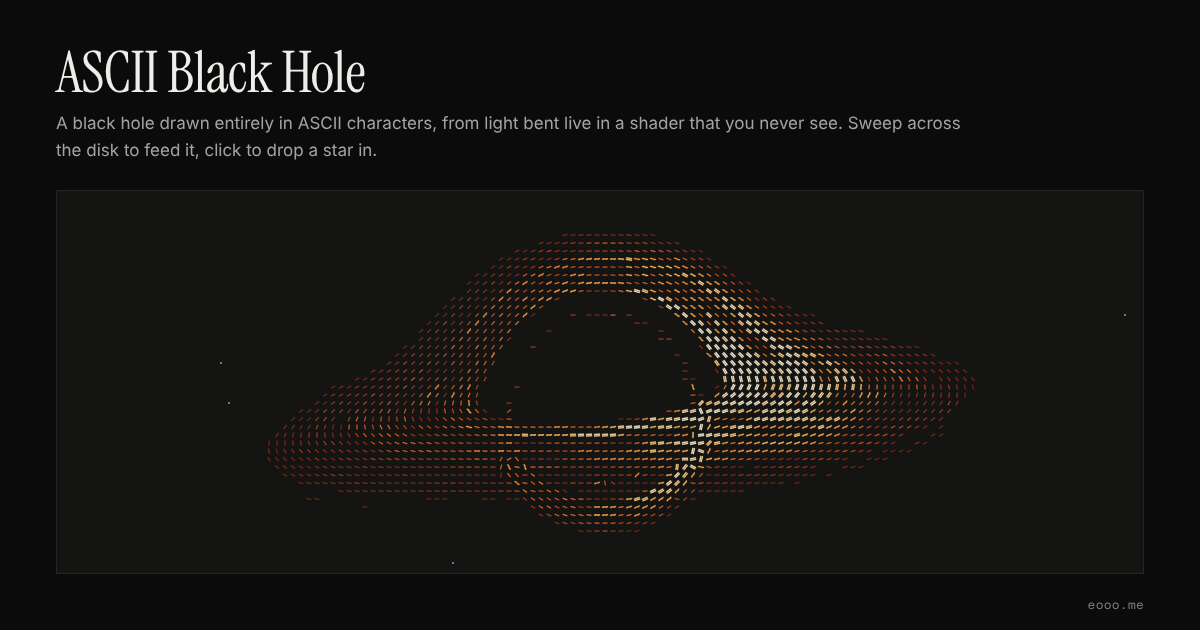
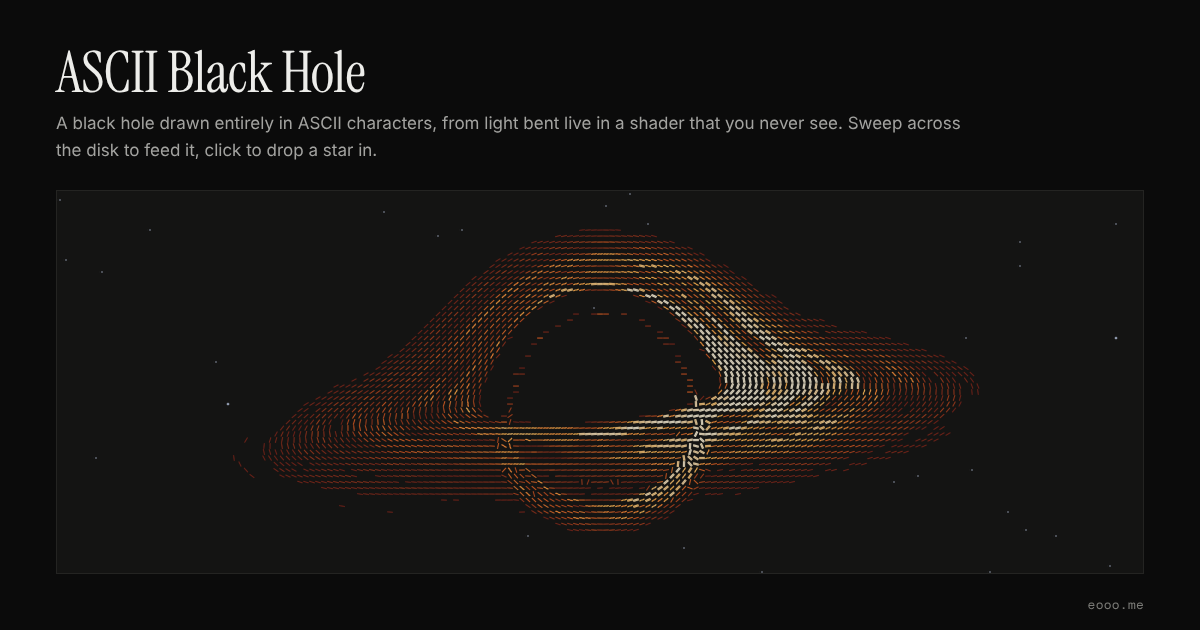
feat(lab): 五个字符画的格子从 8px 改成 6px，横的字拉满整格连成一道道
浅色背景上还是看不清，laken 要格子密一点、铺满。
- 五个 ASCII 实验（Waves、Clouds、Coal、Sand、Black Hole）默认一格 6px（原来 8px）。
- 横的字（- ~ =）连描边一起拉到正好一格宽，左右两格首尾相接，连成一整道；
  原来只拉到八成多宽、最淡的 - 更短，看起来是一段段断开的虚线。
- 底稿跟着格子数走，一格还是两个像素，开销大约是原来的 1.8 倍，平时照样限帧、看不见就停。
- 改了五个 index.md 的 prompt、README 的说明、og.mjs 的注释，重截五张分享图（深色也变了）。

Claude-Session: https://claude.ai/code/session_01AtSjXJX7xpdrjdmPy7ukhw

Changed region(s): [[0.2158, 0.3619, 0.8017, 0.8444]]

diff --git a/src/labs/ascii-clouds/clouds.js b/src/labs/ascii-clouds/clouds.js
@@ -6,9 +6,9 @@
      2. 云（clouds）：镜头站在地上往前上方看，画面最下沿刚好是地平线，整块都是天。每个像素往天上打一条光线，
         在 1 到 2.6 公里高的云层里走 48 步：云底平、云顶圆（云越厚顶越高），再用一张 32³ 的立体噪声（几层 Worley 反过来，
         一团一团鼓起来的）把边咬碎；每步往太阳那边再取三个点，算这里被挡掉多少光，加上天光，远处被雾抹成地平线的颜色。
-        这张图只画到「一格两个像素」那么细（字一格 8px，再细也看不出来），比整屏画便宜几十倍。
+        这张图只画到「一格两个像素」那么细（字一格 6px，再细也看不出来），比整屏画便宜几十倍。
         底稿存颜色和这一格有多少云。
-     3. 合成（composite）：整块切成 8px 见方的格子，每格都有字，不留空：
+     3. 合成（composite）：整块切成 6px 见方的格子，每格都有字，不留空：
         按这一格的亮度从 . : - = + * # % @ 里挑（越亮越浓），天是淡的点，云是浓的字；
         字顺着明暗的等高线转，云边一圈的字绕着云走，跟海浪里字顺着浪头转是一个做法。
         深色主题是黄昏：太阳贴着地平线，云被照成金色、粉色，背光的地方是紫的，字就用底稿的颜色；
@@ -96,7 +96,7 @@ function makeDetail(n = 32) {   // 返回 { data, n }，传给显卡见 create()
 }
 
 // ---------- 字的图集 ----------
-// 一行 9 格，一格 64 见方（字要转，格子得是正方形），由淡到浓：. : - = + * # % @。每个字按墨迹居中，横线稍微拉宽一点，再描一圈边，笔画粗一点
+// 一行 9 格，一格 64 见方（字要转，格子得是正方形），由淡到浓：. : - = + * # % @。每个字按墨迹居中，横线 - = 拉满整格、左右首尾相接，再描一圈边，笔画粗一点
 const GLYPHS = [".", ":", "-", "=", "+", "*", "#", "%", "@"];
 const GROOVE = 64, GROOVE_LIFE = 4;   // 拨开的沟最多记几个点、一个点留几秒
 const T = 64;
@@ -109,11 +109,12 @@ function drawAtlas(c, stroke = [3, 3]) {   // stroke：横线 - =、别的字的
   GLYPHS.forEach((ch, i) => {
     const m = g.measureText(ch);
     const l = m.actualBoundingBoxLeft, r = m.actualBoundingBoxRight, up = m.actualBoundingBoxAscent, dn = m.actualBoundingBoxDescent;
-    const sx = ch === "-" || ch === "=" ? Math.max(1, Math.min(1.5, (0.8 * T) / (l + r))) : 1;
+    const lw = ch === "-" || ch === "=" ? stroke[0] : stroke[1];
+    const sx = ch === "-" || ch === "=" ? Math.max(1, T / (l + r + lw)) : 1;   // 横线连描边一起拉到正好一格宽：左右两格的字首尾相接，连成一整道
     g.save();
     g.translate(i * T + T / 2, T / 2); g.scale(sx, 1);
     const x = -(r - l) / 2, y = (up - dn) / 2;
-    g.lineWidth = ch === "-" || ch === "=" ? stroke[0] : stroke[1];
+    g.lineWidth = lw;
     g.fillText(ch, x, y); g.strokeText(ch, x, y);
     g.restore();
   });
@@ -325,7 +326,7 @@ const COMP_FS = /* glsl */ `
  * @param {HTMLCanvasElement} canvas
  * @param {{ period?: number, cell?: number, fps?: number }} [opts]
  */
-function create(canvas, { period = 12000, cell = 8, fps = 30 } = {}) {
+function create(canvas, { period = 12000, cell = 6, fps = 30 } = {}) {
   const gl = context(canvas);   // 没有 WebGL2 就抛错，交给调用的人接
   const software = softwareGL(gl);
   const motion = matchMedia("(prefers-reduced-motion: reduce)");

diff --git a/src/labs/ascii-waves/waves.js b/src/labs/ascii-waves/waves.js
@@ -6,7 +6,7 @@
         水的亮度（浪顶比浪谷亮，迎着光的浪面、反光更亮，远处被雾抹到中间）、浪头在画面上的走向、浪花有多浓。
         浪花只在三道最大的浪的浪尖上一簇一簇地起，往后拖一段渐淡的尾巴，每簇自己冒出来、再散掉；
         浪尖挤到一起（雅可比行列式变小）的地方、手划过的尾迹上也有。
-     2. 合成（composite）：整块切成 8px 见方的格子，每格都有字，不留空：
+     2. 合成（composite）：整块切成 6px 见方的格子，每格都有字，不留空：
         浪花够浓的格子画浪花的字 . : * o @（越浓越大），深色主题是白的，浅色主题是留白里淡淡的蓝，不转；浪花边上零星撒几个点当飞沫。
         别的格子画水：按亮度从 - ~ = 里挑，颜色沿一条色带走（深色主题越亮越浓，由深蓝到浅蓝；浅色主题反过来越暗越浓，由浅灰蓝到深蓝），
         字再转到浪头的走向上，一道道浪就被横着的字描出来，尾迹推出去的浪上的字也顺着那道浪转，
@@ -94,8 +94,8 @@ function makeWaves(period) {
 }
 
 // ---------- 字的图集 ----------
-// 一行 8 格，一格 64 见方（字要转，格子得是正方形）。前 3 个是水，由淡到浓 - ~ =，横着拉宽，一格接一格连成一道道浪；
-// 后 5 个是浪花，由淡到浓 . : * o @，不拉宽。每个字按墨迹居中，再描一圈边，笔画粗一点
+// 一行 8 格，一格 64 见方（字要转，格子得是正方形）。前 3 个是水，由淡到浓 - ~ =，横着拉满整格，左右首尾相接，连成一道道浪；
+// 后 5 个是浪花，由淡到浓 . : * o @，不拉。每个字按墨迹居中，再描一圈边，笔画粗一点
 const GLYPHS = ["-", "~", "=", ".", ":", "*", "o", "@"], WATER = 3;
 const T = 64;
 function drawAtlas(c, stroke = [4.5, 3]) {
@@ -107,11 +107,12 @@ function drawAtlas(c, stroke = [4.5, 3]) {
   GLYPHS.forEach((ch, i) => {
     const m = g.measureText(ch);
     const l = m.actualBoundingBoxLeft, r = m.actualBoundingBoxRight, up = m.actualBoundingBoxAscent, dn = m.actualBoundingBoxDescent;
-    const sx = i < WATER ? Math.max(1, Math.min(1.8, (0.84 * T) / (l + r))) : 1;
+    const lw = i < WATER ? stroke[0] : stroke[1];   // 水的字是细线，描粗一点才压得住整块
+    const sx = i < WATER ? Math.max(1, T / (l + r + lw)) : 1;   // 横线连描边一起拉到正好一格宽：左右两格的字首尾相接，连成一整道
     g.save();
     g.translate(i * T + T / 2, T / 2); g.scale(sx, 1);
     const x = -(r - l) / 2, y = (up - dn) / 2;
-    g.lineWidth = i < WATER ? stroke[0] : stroke[1];   // 水的字是细线，描粗一点才压得住整块
+    g.lineWidth = lw;
     g.fillText(ch, x, y); g.strokeText(ch, x, y);
     g.restore();
   });
@@ -364,7 +365,7 @@ function lookAt(eye, at) {
  * @param {HTMLCanvasElement} canvas
  * @param {{ period?: number, cell?: number, fps?: number }} [opts]
  */
-function create(canvas, { period = 12000, cell = 8, fps = 30 } = {}) {
+function create(canvas, { period = 12000, cell = 6, fps = 30 } = {}) {
   const gl = context(canvas);   // 没有 WebGL2 就抛错，交给调用的人接
   const software = softwareGL(gl);
   const motion = matchMedia("(prefers-reduced-motion: reduce)");

diff --git a/src/labs/ascii-coal/coal.js b/src/labs/ascii-coal/coal.js
@@ -9,7 +9,7 @@
         朝着它的面一块块闪亮，亮面跟着光滑过去；斜着的面映着一点天光；鼠标是第二盏灯，悬在煤上，跟着鼠标走。
         越远越暗，远处没进黑里。缝里住着冷的蓝光：平时只有几处亮，沿着缝慢慢挪，把缝两边的煤块底下也映蓝。
         底稿存三样：亮度、蓝光有多亮、字该朝哪个方向放（煤面的等高线投到画面上，存成二倍角）。
-     3. 合成（composite）：整块切成 8px 见方的格子，每格都有字，不留空。跟 ASCII Waves 一个做法：
+     3. 合成（composite）：整块切成 6px 见方的格子，每格都有字，不留空。跟 ASCII Waves 一个做法：
         煤面按亮度从 - = # 里挑，颜色沿一条色带走，字再转到等高线的走向上，同一个面上的字朝一个方向，换一个面就换一个方向，
         一块块煤的棱角就被字描出来；蓝光把字染蓝，最亮的地方（裂开时炸开的那一下）是不转的 . : * o @。
         画布是透明的，字以外露出网页自己的底色。
@@ -169,8 +169,8 @@ const terrain = (T) => /* glsl */ `
 `;
 
 // ---------- 字的图集 ----------
-// 一行一格 64 见方（字要转，格子得是正方形）。前 2 个是煤面，由淡到浓 - =，横着拉宽，一格接一格连成一道道线；
-// 后 5 个是光，由弱到强 . : * o @，不拉宽。每个字按墨迹居中，再描一圈边，笔画粗一点
+// 一行一格 64 见方（字要转，格子得是正方形）。前 2 个是煤面，由淡到浓 - =，横着拉满整格，左右首尾相接，连成一道道线；
+// 后 5 个是光，由弱到强 . : * o @，不拉。每个字按墨迹居中，再描一圈边，笔画粗一点
 const GLYPHS = ["-", "=", ".", ":", "*", "o", "@"], BODY = 2;
 const T = 64;
 function drawAtlas(c, stroke = [4.5, 3]) {
@@ -183,11 +183,12 @@ function drawAtlas(c, stroke = [4.5, 3]) {
   GLYPHS.forEach((ch, i) => {
     const m = g.measureText(ch);
     const l = m.actualBoundingBoxLeft, r = m.actualBoundingBoxRight, up = m.actualBoundingBoxAscent, dn = m.actualBoundingBoxDescent;
-    const sx = i < BODY ? Math.max(1, Math.min(1.8, (0.84 * T) / (l + r))) : 1;
+    const lw = i < BODY ? stroke[0] : stroke[1];   // 煤面的字是细线，描粗一点才压得住整块
+    const sx = i < BODY ? Math.max(1, T / (l + r + lw)) : 1;   // 横线连描边一起拉到正好一格宽：左右两格的字首尾相接，连成一整道
     g.save();
     g.translate(i * T + T / 2, T / 2); g.scale(sx, 1);
     const x = -(r - l) / 2, y = (up - dn) / 2;
-    g.lineWidth = i < BODY ? stroke[0] : stroke[1];   // 煤面的字是细线，描粗一点才压得住整块
+    g.lineWidth = lw;
     g.fillText(ch, x, y); g.strokeText(ch, x, y);
     g.restore();
   });
@@ -453,7 +454,7 @@ const compFS = (T) => /* glsl */ `
  * @param {HTMLCanvasElement} canvas
  * @param {{ period?: number, cell?: number, fps?: number }} [opts]
  */
-function create(canvas, { period = 12000, cell = 8, fps = 30 } = {}) {
+function create(canvas, { period = 12000, cell = 6, fps = 30 } = {}) {
   const P = DEF;
   const gl = context(canvas);   // 没有 WebGL2 就抛错，交给调用的人接
   const software = softwareGL(gl);

diff --git a/src/labs/ascii-sand/sand.js b/src/labs/ascii-sand/sand.js
@@ -7,7 +7,7 @@
         太阳低低地挂在左后方：朝着镜头的迎风坡亮，背风坡背着光，沙丘的影子拖得很长（往太阳那边走几步看挡没挡住）；
         越远越被沙尘的雾抹平，到地平线跟天接上。棱上不时被风扬起一缕缕沙，顺着风往下飘。
         底稿存三样：亮度、扬起的沙有多少、字该朝哪个方向放（沙纹的走向，没有沙纹就顺着沙丘的等高线，投到画面上，存成二倍角）。
-     2. 合成（composite）：整块切成 8px 见方的格子，每格都有字，不留空。跟 ASCII Waves 一个做法：
+     2. 合成（composite）：整块切成 6px 见方的格子，每格都有字，不留空。跟 ASCII Waves 一个做法：
         沙按亮度从 - ~ = 里挑，颜色沿一条色带走，字再转到沙纹的走向上，一道道沙纹就被字描出来，跟着透视往远处收；
         扬起来的沙是另一个颜色的 . : *，不转。画布是透明的，字以外露出网页自己的底色。
 
@@ -130,8 +130,8 @@ function duneH(x, z) {
 }
 
 // ---------- 字的图集 ----------
-// 一行一格 64 见方（字要转，格子得是正方形）。前 3 个是沙，由淡到浓 - ~ =，横着拉宽，一格接一格连成一道道沙纹；
-// 后 3 个是扬起来的沙，由淡到浓 . : *，不拉宽。每个字按墨迹居中，再描一圈边，笔画粗一点
+// 一行一格 64 见方（字要转，格子得是正方形）。前 3 个是沙，由淡到浓 - ~ =，横着拉满整格，左右首尾相接，连成一道道沙纹；
+// 后 3 个是扬起来的沙，由淡到浓 . : *，不拉。每个字按墨迹居中，再描一圈边，笔画粗一点
 const GLYPHS = ["-", "~", "=", ".", ":", "*"], SAND = 3;
 const T = 64;
 function drawAtlas(c, stroke = [4.5, 3]) {
@@ -144,11 +144,12 @@ function drawAtlas(c, stroke = [4.5, 3]) {
   GLYPHS.forEach((ch, i) => {
     const m = g.measureText(ch);
     const l = m.actualBoundingBoxLeft, r = m.actualBoundingBoxRight, up = m.actualBoundingBoxAscent, dn = m.actualBoundingBoxDescent;
-    const sx = i < SAND ? Math.max(1, Math.min(1.8, (0.84 * T) / (l + r))) : 1;
+    const lw = i < SAND ? stroke[0] : stroke[1];   // 沙的字是细线，描粗一点才压得住整块
+    const sx = i < SAND ? Math.max(1, T / (l + r + lw)) : 1;   // 横线连描边一起拉到正好一格宽：左右两格的字首尾相接，连成一整道
     g.save();
     g.translate(i * T + T / 2, T / 2); g.scale(sx, 1);
     const x = -(r - l) / 2, y = (up - dn) / 2;
-    g.lineWidth = i < SAND ? stroke[0] : stroke[1];   // 沙的字是细线，描粗一点才压得住整块
+    g.lineWidth = lw;
     g.fillText(ch, x, y); g.strokeText(ch, x, y);
     g.restore();
   });
@@ -405,7 +406,7 @@ const COMP_FS = /* glsl */ `
  * @param {HTMLCanvasElement} canvas
  * @param {{ period?: number, cell?: number, fps?: number }} [opts]
  */
-function create(canvas, { period = 12000, cell = 8, fps = 30 } = {}) {
+function create(canvas, { period = 12000, cell = 6, fps = 30 } = {}) {
   const gl = context(canvas);   // 没有 WebGL2 就抛错，交给调用的人接
   const software = softwareGL(gl);
   const motion = matchMedia("(prefers-reduced-motion: reduce)");

diff --git a/src/labs/ascii-black-hole/hole.js b/src/labs/ascii-black-hole/hole.js
@@ -9,7 +9,7 @@
         盘上一道道气流按开普勒转：里圈快、外圈慢。
         底稿存三样：亮度、星星有多亮、字该朝哪个方向放（气体绕着转的方向，按屏幕上算的，
         所以绕到黑洞上面的那道光环，字也跟着绕过去），方向存成二倍角。
-     2. 合成（composite）：整块切成 8px 见方的格子。跟另外几个字符画一个做法：
+     2. 合成（composite）：整块切成 6px 见方的格子。跟另外几个字符画一个做法：
         盘按亮度从 - ~ = 里挑，颜色沿一条色带走，字再转到气体的流向上，一圈圈轨道就被字描出来；
         星星是另一个颜色的 . + *，不转；黑洞和空的天上没有字，露出网页自己的底色。
 
@@ -60,8 +60,8 @@ const COLORS = {
 };
 
 // ---------- 字的图集 ----------
-// 一行一格 64 见方（字要转，格子得是正方形）。前 3 个是盘，由淡到浓 - ~ =，横着拉宽，一格接一格连成一道道弧；
-// 后 3 个是星星，由暗到亮 . + *，不拉宽。每个字按墨迹居中，再描一圈边，笔画粗一点
+// 一行一格 64 见方（字要转，格子得是正方形）。前 3 个是盘，由淡到浓 - ~ =，横着拉满整格，左右首尾相接，连成一道道弧；
+// 后 3 个是星星，由暗到亮 . + *，不拉。每个字按墨迹居中，再描一圈边，笔画粗一点
 const GLYPHS = ["-", "~", "=", ".", "+", "*"], DISK = 3;
 const T = 64;
 function drawAtlas(c) {
@@ -74,11 +74,12 @@ function drawAtlas(c) {
   GLYPHS.forEach((ch, i) => {
     const m = g.measureText(ch);
     const l = m.actualBoundingBoxLeft, r = m.actualBoundingBoxRight, up = m.actualBoundingBoxAscent, dn = m.actualBoundingBoxDescent;
-    const sx = i < DISK ? Math.max(1, Math.min(1.8, (0.84 * T) / (l + r))) : 1;
+    const lw = i < DISK ? 4.5 : 3;
+    const sx = i < DISK ? Math.max(1, T / (l + r + lw)) : 1;   // 横线连描边一起拉到正好一格宽：左右两格的字首尾相接，连成一整道
     g.save();
     g.translate(i * T + T / 2, T / 2); g.scale(sx, 1);
     const x = -(r - l) / 2, y = (up - dn) / 2;
-    g.lineWidth = i < DISK ? 4.5 : 3;
+    g.lineWidth = lw;
     g.fillText(ch, x, y); g.strokeText(ch, x, y);
     g.restore();
   });
@@ -295,7 +296,7 @@ const compFS = () => /* glsl */ `
  * @param {HTMLCanvasElement} canvas
  * @param {{ period?: number, cell?: number, fps?: number }} [opts]
  */
-function create(canvas, { period = 12000, cell = 8, fps = 30 } = {}) {
+function create(canvas, { period = 12000, cell = 6, fps = 30 } = {}) {
   const gl = context(canvas);   // 没有 WebGL2 就抛错，交给调用的人接
   const software = softwareGL(gl);
   const motion = matchMedia("(prefers-reduced-motion: reduce)");

diff --git a/README.md b/README.md
@@ -127,7 +127,7 @@ pnpm check      # 类型检查
 - **Astro**（静态生成）：比较过留在 Vite + React 单页、Next.js 静态导出、Eleventy。原来的单页把所有东西都放在一个 JS 里，HTML 是空的，搜索引擎和分享卡片都看不到内容，首屏要等 React 下载完；Next.js 静态导出每页都带着 React 的运行时；Eleventy 页面很轻，但实验是 React 组件，要另想办法挂。Astro 默认页面不带 JS，又能把 React 组件当「岛」按需挂，正好：首页本身只有主题按钮和字符画两段小脚本，React 和实验的代码等滚到实验那一节才下载，一个实验一个文件。sooty 的官网也是 Astro，用法一样。
 - **React 只给实验用**：实验原来就是 React 写的，拖动、切换这些交互用 React 写也顺手，源码公开给人看。2026-10-27 重写时样式换成了普通 CSS 和共用的 `_kit/kit.css`，去掉了 Motion、Tabler 图标和 Tailwind 的类名（见「实验的样子」）。网站本身（顶栏、首页、详情页）全是 Astro 组件和普通 CSS。
 - **Tailwind 只扫 `src/labs/`**：现在的实验都不用它的类名，留着主要是 preflight 当整站的样式重置；以后的实验想用类名也能用。网站自己的样式不用 Tailwind，写在组件的 `<style>` 里。
-- **ASCII Waves、ASCII Clouds、ASCII Coal、ASCII Sand、ASCII Black Hole 直接写 WebGL2，不引 3D 库**：五个实验都是着色器在离屏图里画一个真的 3D 场景当底稿（海：透视镜头、12 万个点的海面网格、深度；云：往天上打光线，在云层里一步步走；煤：斜着往下看一床煤块，按 Voronoi 分成一块块，每块的高度连同坡度一起算，光线步进只在尺寸变了时算一次、存下落点，每帧只重新打光，2026-11-05 照 laken 给的一块裂开的煤的图加的；沙：站在沙丘上往地平线看，每个像素往高度场打光线，迎风坡缓、背风坡陡，迎风坡上有沙纹，低低的太阳往太阳那边走几步算影子，2026-11-06 加的；黑洞：每个像素的光线按史瓦西黑洞的引力一步步弯着走，穿过吸积盘就加上盘在那儿的光，盘后面那一半被弯到黑洞上下成两道光环，2026-11-09 laken 要一个宇宙题材的，挑了黑洞），再全屏挑字，屏上只有字。五个实验挑字的做法一样：- ~ = 这类横的字转到浪头、沙纹、煤面等高线、气体绕着转的走向上，明暗主要靠颜色。黑洞的光线是弯的，字的方向没法从盘面直接投到屏幕上，改成按屏幕上「穿过盘面那一点的半径」的导数算，绕到黑洞上面的光环上字也跟着绕。煤和沙第一版是正对着、从正上方看的，缝和棱用不转的 ~ - \ | / 描（老式字符画的做法），laken 觉得跟海和云比差太多，2026-11-06 都改成了现在的透视镜头和转着的字。2026-11-04 先用 Three.js 写了海浪（laken 定的「全程用 Three.js 和 shader 实时渲染」），同一天做云的时候 laken 觉得不用 Three.js 也能一模一样，定了两个实验都改成原生 WebGL2。着色器本来就是自己写的，Three.js 只替我们做了镜头矩阵、离屏图、深度、mipmap 和「鼠标落在海面哪里」，这些在 `src/labs/_kit/gl.js`（建上下文、编着色器、按类型设 uniform、全屏三角形、离屏图、从 canvas 建贴图）和 `waves.js` 开头的两个矩阵函数里，一共一百多行。改完以后海浪的静止帧跟 Three.js 那版逐像素一样（深浅两种主题、1 倍和 2 倍屏都比过），海浪这个实验少下 540 KB（gzip 后 135 KB）。也看过：
+- **ASCII Waves、ASCII Clouds、ASCII Coal、ASCII Sand、ASCII Black Hole 直接写 WebGL2，不引 3D 库**：五个实验都是着色器在离屏图里画一个真的 3D 场景当底稿（海：透视镜头、12 万个点的海面网格、深度；云：往天上打光线，在云层里一步步走；煤：斜着往下看一床煤块，按 Voronoi 分成一块块，每块的高度连同坡度一起算，光线步进只在尺寸变了时算一次、存下落点，每帧只重新打光，2026-11-05 照 laken 给的一块裂开的煤的图加的；沙：站在沙丘上往地平线看，每个像素往高度场打光线，迎风坡缓、背风坡陡，迎风坡上有沙纹，低低的太阳往太阳那边走几步算影子，2026-11-06 加的；黑洞：每个像素的光线按史瓦西黑洞的引力一步步弯着走，穿过吸积盘就加上盘在那儿的光，盘后面那一半被弯到黑洞上下成两道光环，2026-11-09 laken 要一个宇宙题材的，挑了黑洞），再全屏挑字，屏上只有字。五个实验挑字的做法一样：- ~ = 这类横的字转到浪头、沙纹、煤面等高线、气体绕着转的走向上，明暗主要靠颜色。格子 6px 见方，横的字连描边一起拉到正好一格宽，左右两格首尾相接连成一整道（原来是 8px、拉到八成多宽，一段段断开的；2026-11-17 laken 嫌浅色背景上看不清，要格子密一点、铺满，改成了现在这样）。黑洞的光线是弯的，字的方向没法从盘面直接投到屏幕上，改成按屏幕上「穿过盘面那一点的半径」的导数算，绕到黑洞上面的光环上字也跟着绕。煤和沙第一版是正对着、从正上方看的，缝和棱用不转的 ~ - \ | / 描（老式字符画的做法），laken 觉得跟海和云比差太多，2026-11-06 都改成了现在的透视镜头和转着的字。2026-11-04 先用 Three.js 写了海浪（laken 定的「全程用 Three.js 和 shader 实时渲染」），同一天做云的时候 laken 觉得不用 Three.js 也能一模一样，定了两个实验都改成原生 WebGL2。着色器本来就是自己写的，Three.js 只替我们做了镜头矩阵、离屏图、深度、mipmap 和「鼠标落在海面哪里」，这些在 `src/labs/_kit/gl.js`（建上下文、编着色器、按类型设 uniform、全屏三角形、离屏图、从 canvas 建贴图）和 `waves.js` 开头的两个矩阵函数里，一共一百多行。改完以后海浪的静止帧跟 Three.js 那版逐像素一样（深浅两种主题、1 倍和 2 倍屏都比过），海浪这个实验少下 540 KB（gzip 后 135 KB）。也看过：
   - Three.js（0.186，MIT）：`PerspectiveCamera`、`RawShaderMaterial`、`WebGLRenderTarget`、`Raycaster` 正好都有，但只用到这几样，场景树、材质、灯光这些大半的代码用不上，却要整个下载。
   - OGL（1.0，Unlicense）：小，接口跟 Three.js 像，但 2025 年初以后没再发版。
   - regl（2.1，MIT）：函数式的写法很省，但只支持 WebGL1，着色器得改写成 GLSL 1.0，2024 年以后没再发版。

diff --git a/src/labs/ascii-coal/index.md b/src/labs/ascii-coal/index.md
@@ -27,8 +27,8 @@ prompt: |-
   - Render at 2 pixels per character cell into a mipmapped target, and read each cell from mip level 1.
 
   3. Characters
-  - Cut the canvas into 8 px cells. Every cell gets a character.
-  - Coal gets - = by brightness, turned along the stored direction, so each face is hatched in its own direction and the lumps' edges show where the direction changes. Stretch them to 0.84 of the cell's width so neighbours join. Read the direction from mip level 2, and guard the angle where the direction vector is zero, because atan(0, 0) is NaN on some GPUs.
+  - Cut the canvas into 6 px cells. Every cell gets a character.
+  - Coal gets - = by brightness, turned along the stored direction, so each face is hatched in its own direction and the lumps' edges show where the direction changes. Stretch them sideways until each one, outline included, is exactly a cell wide, so neighbours join end to end. Read the direction from mip level 2, and guard the angle where the direction vector is zero, because atan(0, 0) is NaN on some GPUs.
   - In dark mode, map brightness 0.04–0.5 across the glyphs and lift the darks with a power of 0.6, since coal is mostly dark. Turn the strokes in the darkest cells level, like the hatching in an engraving's shadows, and let only the lit faces follow their contours.
   - In light mode the ink sits on the shaded faces instead: map 0.04–0.65 (or half the faces wash out to pale grey and the lumps look hollow), let the inked faces follow their contours, and lay only the palest lit faces level. Lay the strokes level in the distance too, where the bed fades to paper.
   - Blue light tints the strokes and makes them denser. Where it is strongest (a crack's flash, a fresh split), use upright . : * o @ instead. In dark mode, scatter an upright * over the brightest highlights.

diff --git a/src/labs/ascii-sand/index.md b/src/labs/ascii-sand/index.md
@@ -25,8 +25,8 @@ prompt: |-
   - Render at 2 pixels per character cell into a mipmapped target, and read each cell from mip level 1.
 
   2. Characters
-  - Cut the canvas into 8 px cells. Every cell gets a character.
-  - Sand gets - ~ = by brightness, turned along the stored direction, so each ripple and dune is traced by sideways strokes that converge with the perspective. Stretch them to 0.84 of the cell's width so neighbours join into lines. Read the direction from a blurrier mip level (2.5) than the brightness, so it doesn't jitter with every small bump, and guard the angle where the direction vector is zero, because atan(0, 0) is NaN on some GPUs.
+  - Cut the canvas into 6 px cells. Every cell gets a character.
+  - Sand gets - ~ = by brightness, turned along the stored direction, so each ripple and dune is traced by sideways strokes that converge with the perspective. Stretch them sideways until each one, outline included, is exactly a cell wide, so neighbours join end to end into unbroken lines. Read the direction from a blurrier mip level (2.5) than the brightness, so it doesn't jitter with every small bump, and guard the angle where the direction vector is zero, because atan(0, 0) is NaN on some GPUs.
   - Map brightness 0.31–0.62 across the glyphs, push it through a gentle S-curve for contrast, and raise it to a power before picking the glyph (1.8 in dark mode), so most cells are the thin - and ~ and only the brightest get =. The colour ramp carries most of the tone.
   - Blown sand gets upright . : * in its own colour, with a few stray grains around it.
   - Draw the characters from a glyph atlas painted with the canvas 2D API in my site's monospace font, and repaint it once the font has loaded.

diff --git a/src/labs/ascii-black-hole/index.md b/src/labs/ascii-black-hole/index.md
@@ -24,8 +24,8 @@ prompt: |-
   - Render at 2 pixels per character cell into a mipmapped target, and read each cell from mip level 1.
 
   2. Characters
-  - Cut the canvas into 8 px cells. The hole and empty space get no character.
-  - The disk gets - ~ = by brightness, turned along the stored direction, so the orbits are traced by sideways strokes that bend around the hole. Stretch them to 0.84 of the cell's width so neighbours join into arcs. Read the direction from mip level 1.5, and guard the angle where the direction vector is zero, because atan(0, 0) is NaN on some GPUs.
+  - Cut the canvas into 6 px cells. The hole and empty space get no character.
+  - The disk gets - ~ = by brightness, turned along the stored direction, so the orbits are traced by sideways strokes that bend around the hole. Stretch them sideways until each one, outline included, is exactly a cell wide, so neighbours join end to end into unbroken arcs. Read the direction from mip level 1.5, and guard the angle where the direction vector is zero, because atan(0, 0) is NaN on some GPUs.
   - Map brightness 0.06–0.85 across the glyphs with a gentle S-curve, and raise it to a power before picking the glyph (1.4 in dark mode, 1.2 in light), so most cells are the thin - and ~ and only the brightest get =.
   - Where gas or a star the visitor added makes most of the light, lift the cell to at least 60% and tint it toward a hotter colour.
   - Stars get upright . + * in their own colour, only in cells with no disk.

diff --git a/src/labs/ascii-clouds/index.md b/src/labs/ascii-clouds/index.md
@@ -18,9 +18,9 @@ prompt: |-
   - Render this draft at only 2 pixels per character cell into a mipmapped render target. Nobody sees it directly.
 
   2. Characters
-  - Cut the canvas into 8 px cells. Every cell gets a character; none is left empty.
+  - Cut the canvas into 6 px cells. Every cell gets a character; none is left empty.
   - Pick from . : - = + * # % @ by brightness. The sky uses only . : - and the clouds use the rest (light mode inks them differently, see Themes).
-  - Turn each character along the brightness contour, perpendicular to the gradient across neighbouring cells, so the strokes flow around each cloud. Guard the angle where the gradient is zero, because atan(0, 0) is NaN on some GPUs.
+  - Turn each character along the brightness contour, perpendicular to the gradient across neighbouring cells, so the strokes flow around each cloud. Stretch - and = sideways until each one, outline included, is exactly a cell wide, so the hatching joins end to end. Guard the angle where the gradient is zero, because atan(0, 0) is NaN on some GPUs.
   - Draw the characters from a glyph atlas painted with the canvas 2D API in my site's monospace font. Repaint it once the font has loaded.
 
   3. Themes

diff --git a/src/labs/ascii-waves/index.md b/src/labs/ascii-waves/index.md
@@ -21,9 +21,9 @@ prompt: |-
   - Render into a target with depth and mipmaps, and read each cell from the mip level that matches the cell size.
 
   2. Characters
-  - Cut the canvas into 8 px cells. Every cell gets a character.
+  - Cut the canvas into 6 px cells. Every cell gets a character.
   - Cells with enough foam get an upright . : * o @, denser for more foam, with a few stray dots around the foam as spray.
-  - Other cells get - ~ = by brightness, turned along the crest direction, so each wave is traced by sideways strokes. Guard the angle where the direction vector is zero, because atan(0, 0) is NaN on some GPUs.
+  - Other cells get - ~ = by brightness, turned along the crest direction, so each wave is traced by sideways strokes. Stretch them sideways until each one, outline included, is exactly a cell wide, so neighbours join end to end into unbroken lines. Guard the angle where the direction vector is zero, because atan(0, 0) is NaN on some GPUs.
   - Draw the characters from a glyph atlas painted with the canvas 2D API in my site's monospace font. Repaint it once the font has loaded.
 
   3. Themes
